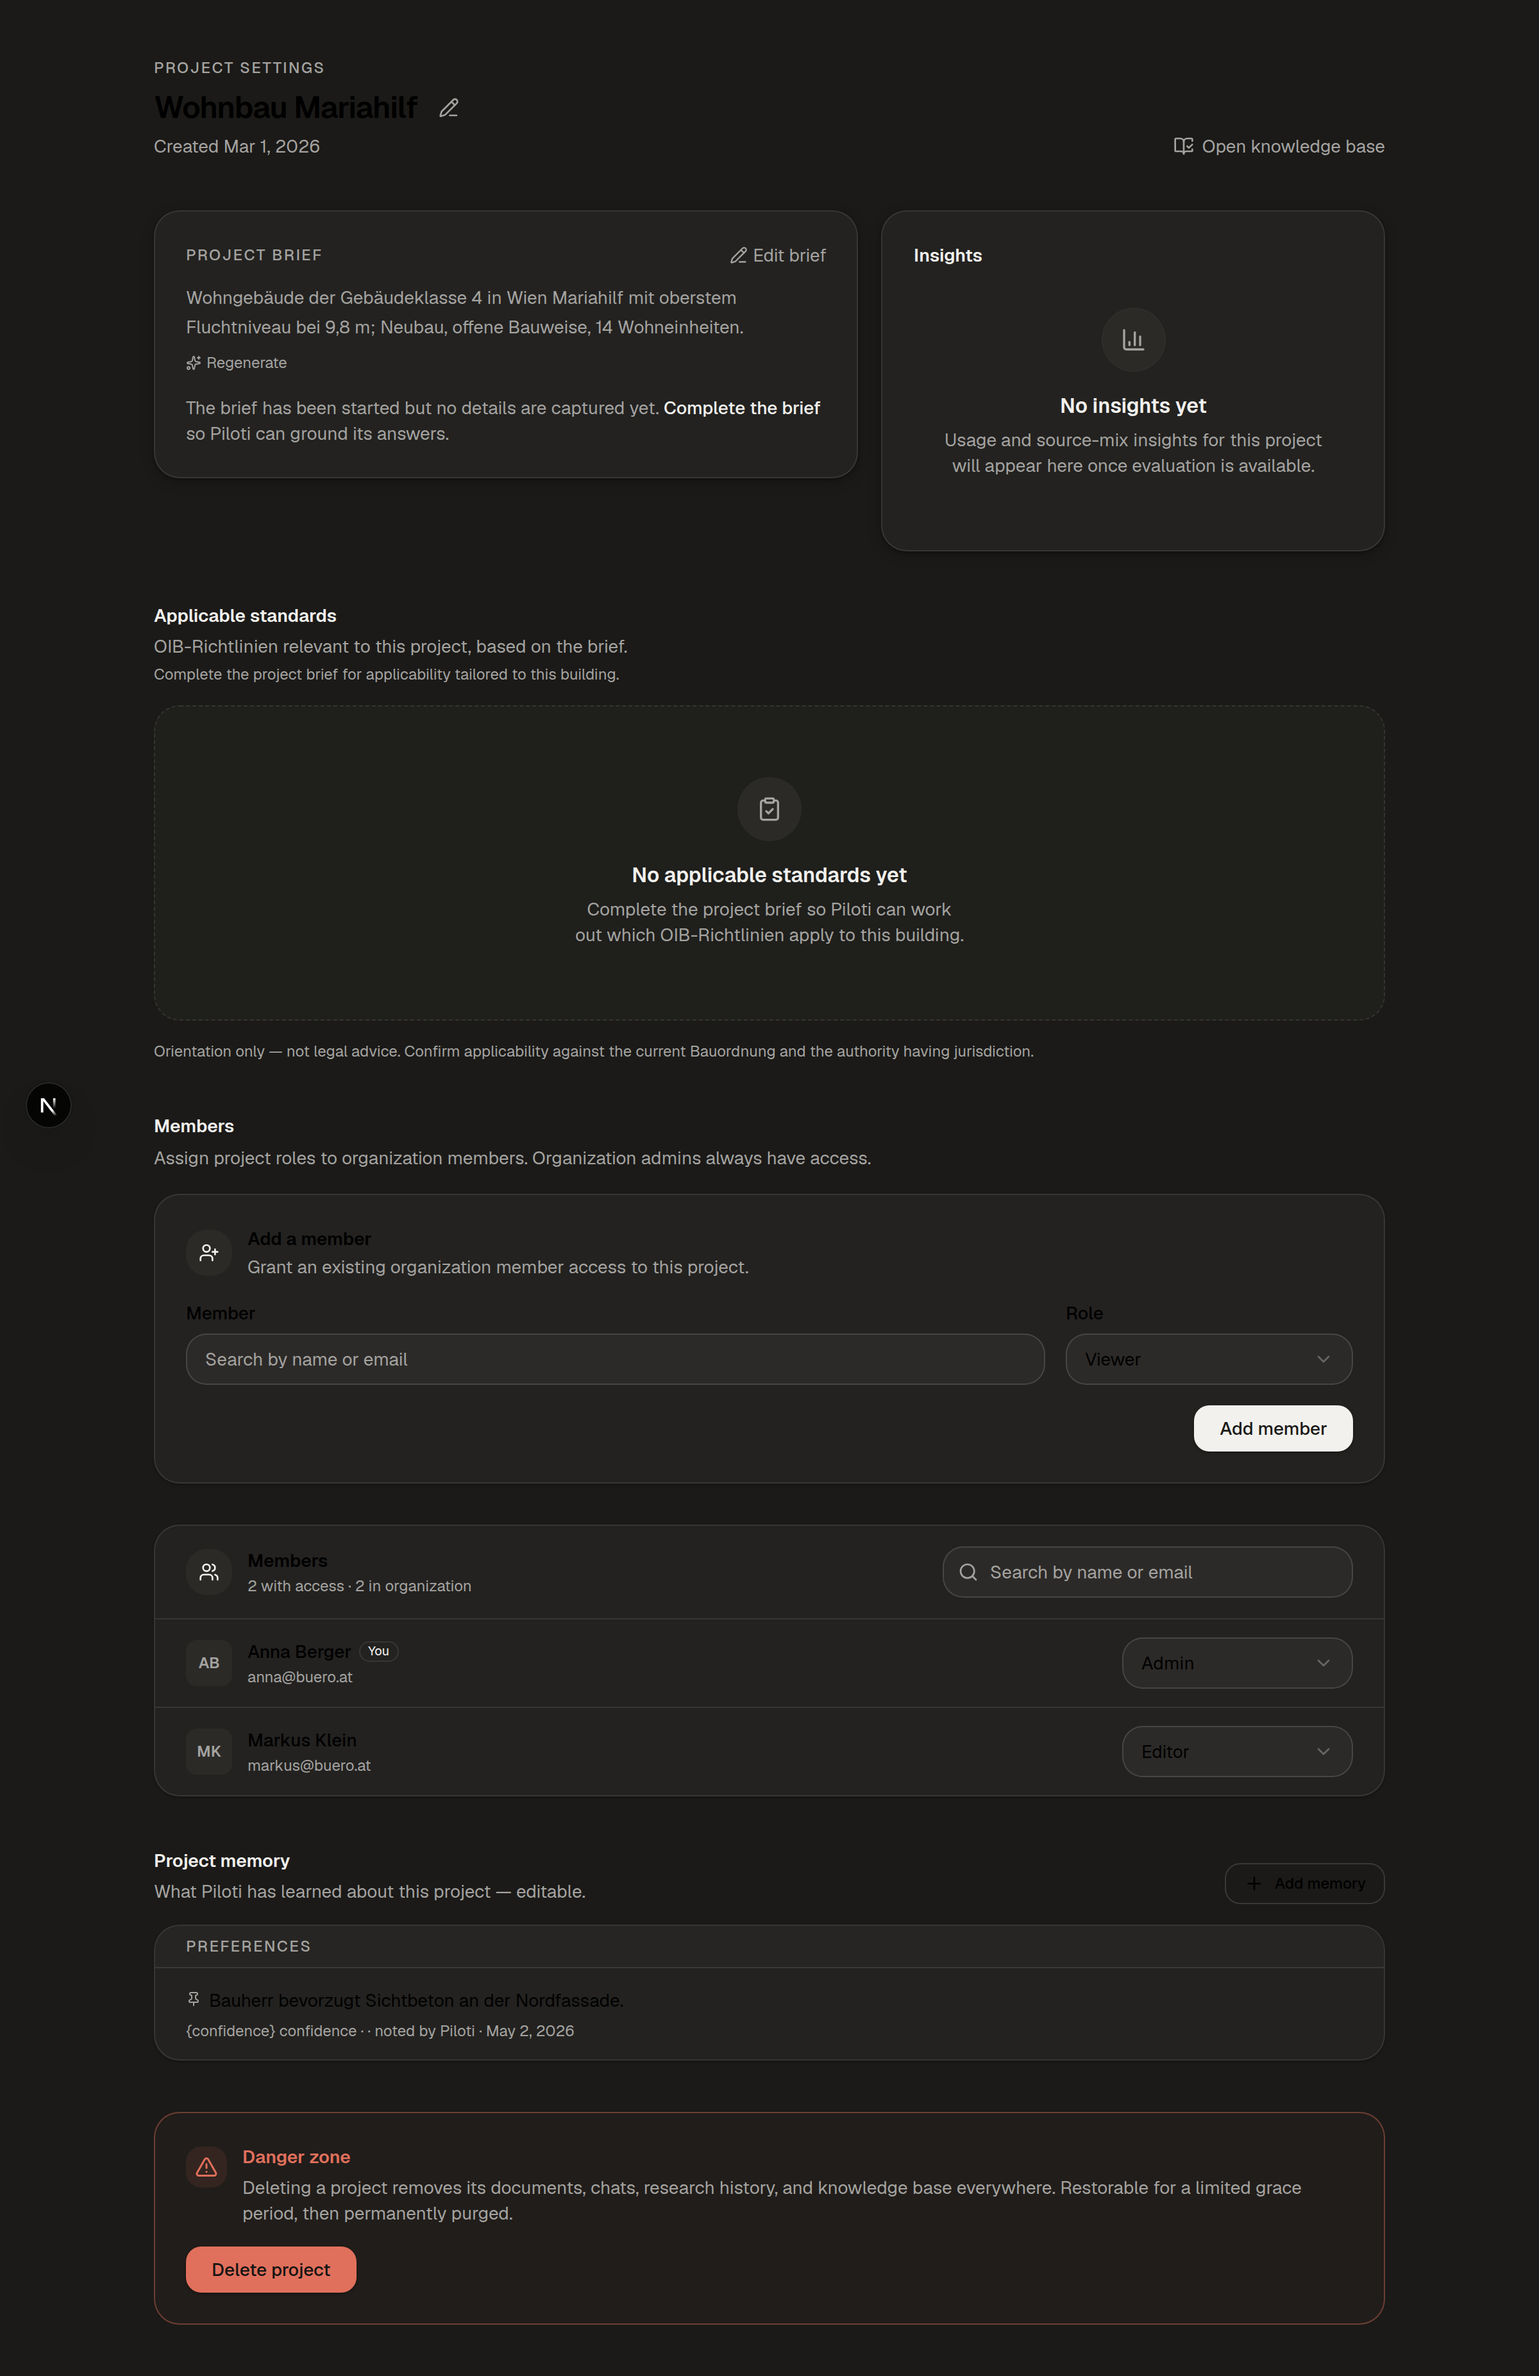
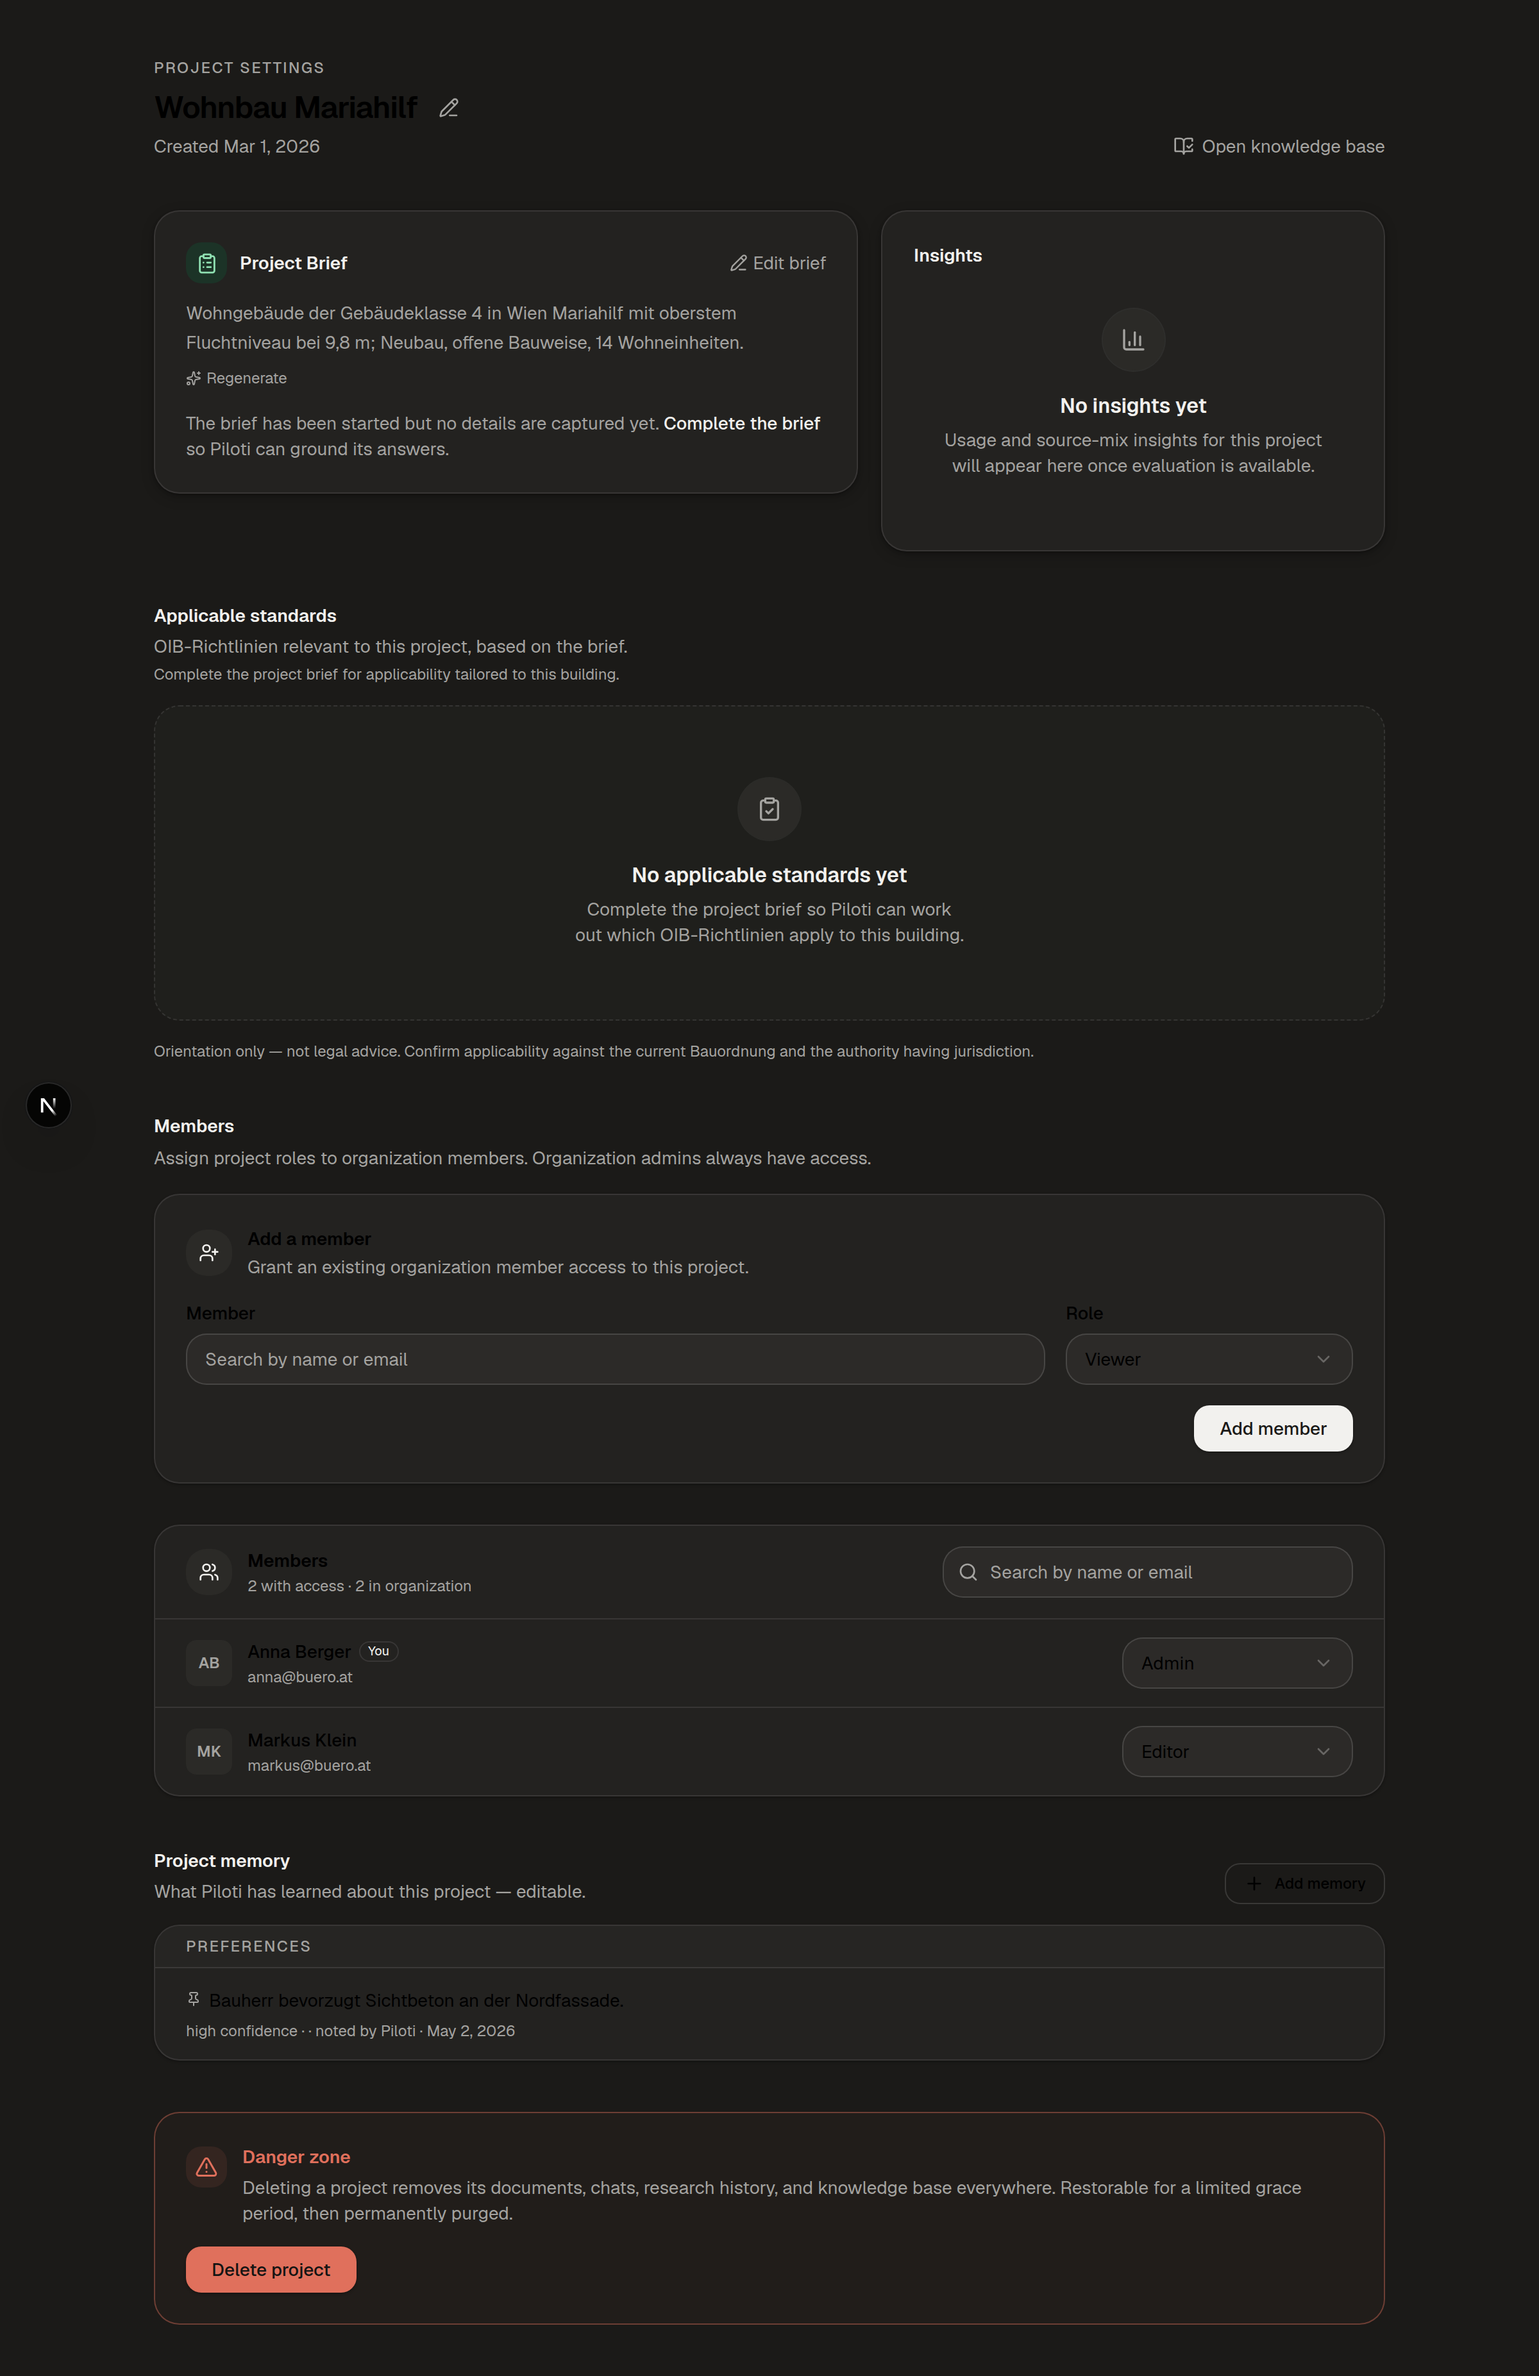
feat(ui): modernize the Project Brief card header
The brief header still used the dated uppercase-eyebrow style, out of step with
its Insights card sibling and the freshly-unified section headings. Give it a
proper card header: a project-tinted ClipboardList icon tile + a strong
`text-sm font-semibold` title, with the captured-facts count as a compact pill
beside the title. The Brief and Insights cards now read as a balanced pair.

Claude-Session: https://claude.ai/code/session_013k8sNQ8o3FtuyVk8YSqmEi

Changed region(s): [[0.125, 0.0931, 0.5312, 0.1862], [0.125, 0.8378, 0.1562, 0.8689]]

diff --git a/frontends/ui/src/features/projects/components/project-brief.tsx b/frontends/ui/src/features/projects/components/project-brief.tsx
@@ -12,6 +12,7 @@ import { Badge } from '@/components/ui/badge'
 import { Button } from '@/components/ui/button'
 import { EmptyState } from '@/components/ui/empty-state'
 import { useLocale, useTranslations } from '@/i18n'
+import { sourceTint } from '@/lib/ui/source-tint'
 
 interface ProjectBriefProps {
   projectId: string
@@ -77,30 +78,35 @@ export function ProjectBrief({
 
   return (
     <section className="rounded-2xl border bg-card p-6 shadow-sm">
-      {/* Header: eyebrow + completeness + edit */}
-      <div className="flex flex-wrap items-center justify-between gap-x-4 gap-y-1">
-        <h2 className="text-xs font-medium uppercase tracking-widest text-muted-foreground">
-          {t('overview.brief.heading')}
-        </h2>
-        <div className="flex items-center gap-4">
+      {/* Header: icon tile + title + completeness + edit */}
+      <div className="flex flex-wrap items-center justify-between gap-x-4 gap-y-2">
+        <div className="flex items-center gap-2.5">
+          <span
+            className="flex size-8 shrink-0 items-center justify-center rounded-lg"
+            style={sourceTint('project')}
+            aria-hidden
+          >
+            <ClipboardList className="size-[17px]" />
+          </span>
+          <h2 className="text-sm font-semibold text-foreground">{t('overview.brief.heading')}</h2>
           {brief.totalCount > 0 && (
-            <span className="text-xs tabular-nums text-muted-foreground">
+            <span className="rounded-full bg-muted px-2 py-0.5 text-[11px] font-medium tabular-nums text-muted-foreground">
               {t('overview.brief.captured', {
                 answered: String(brief.answeredCount),
                 total: String(brief.totalCount),
               })}
             </span>
           )}
-          {canEdit && (
-            <Link
-              href={intakeHref}
-              className="inline-flex items-center gap-1 text-sm text-muted-foreground transition-colors hover:text-foreground"
-            >
-              <PencilLine className="size-3.5" aria-hidden />
-              {t('overview.brief.edit')}
-            </Link>
-          )}
         </div>
+        {canEdit && (
+          <Link
+            href={intakeHref}
+            className="inline-flex items-center gap-1 text-sm text-muted-foreground transition-colors hover:text-foreground"
+          >
+            <PencilLine className="size-3.5" aria-hidden />
+            {t('overview.brief.edit')}
+          </Link>
+        )}
       </div>
 
       {/* AI summary prose. When the brief has facts but no prose yet (a wizard
